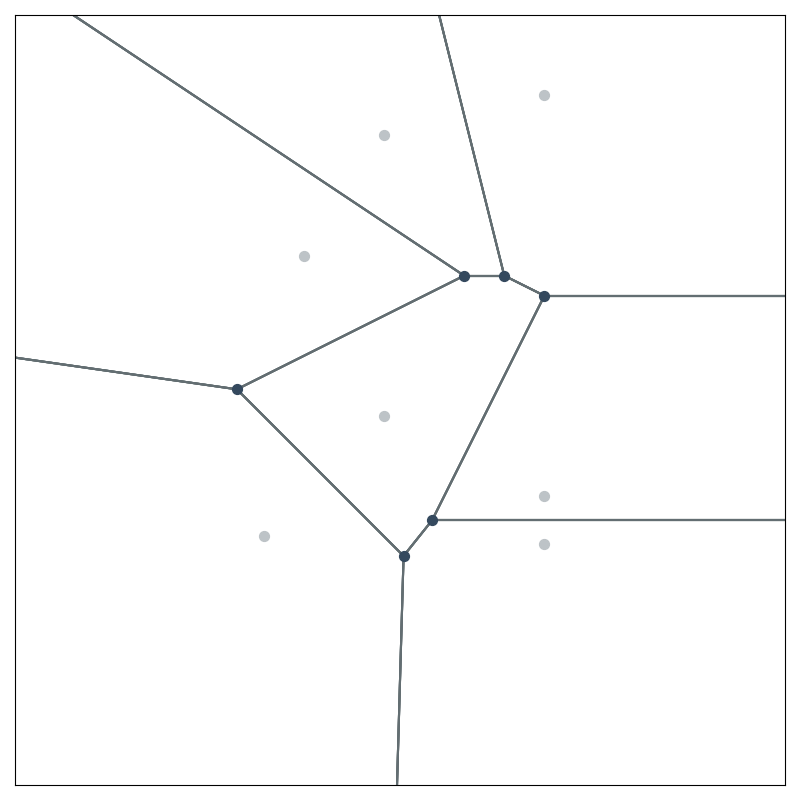
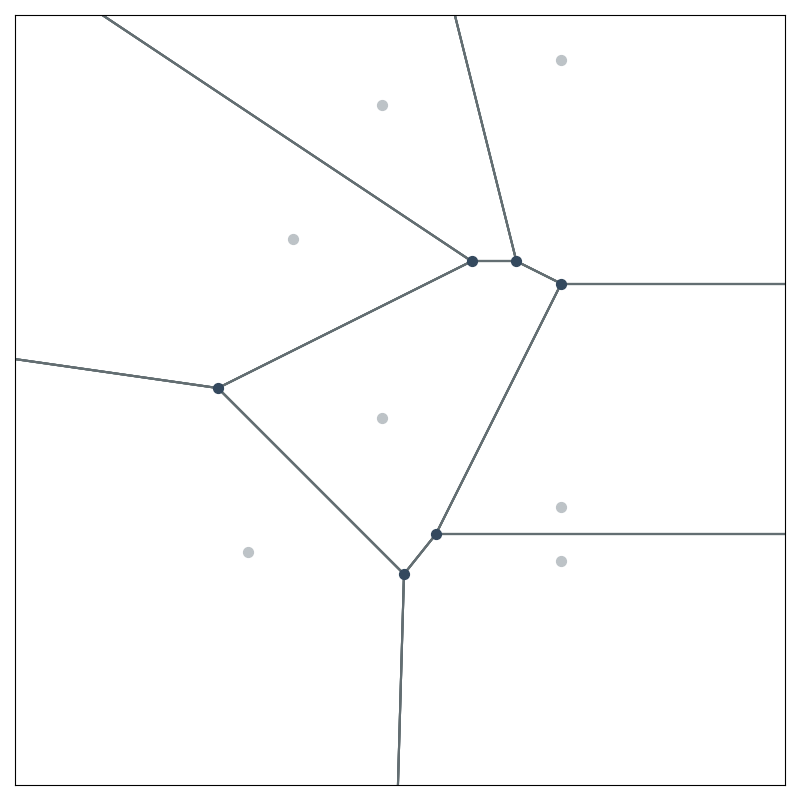
a few changes to the visualizer

diff --git a/src/visualizer.py b/src/visualizer.py
@@ -22,7 +22,7 @@ class Colors:
 
 class Visualizer:
     def __init__(
-        self, voronoi, bounding_box, offset=1, figsize=(8, 8), save_dir="images"
+        self, voronoi, bounding_box, offset=2, figsize=(8, 8), save_dir="images"
     ):
         """
         A useful class to visualize the Fortune's algorithm execution
@@ -175,13 +175,23 @@ class Visualizer:
 
         return
 
-    def plot_circle(self, x: float, y: float, radius: float, is_valid: bool = True):
+    def plot_circle(
+        self,
+        x: float,
+        y: float,
+        radius: float,
+        is_valid: bool = True,
+        plot_center: bool = True,
+    ):
         """
         Plot a circle.
         """
         color = Colors.valid_circle if is_valid else Colors.invalid_circle
         circle = plt.Circle((x, y), radius, fill=False, color=color, linewidth=2)
         self.canvas.add_artist(circle)
+
+        if plot_center:
+            self.canvas.scatter(x, y, s=50, color=color)
 
         return
 

diff --git a/src/fortune.py b/src/fortune.py
@@ -14,7 +14,7 @@ class Fortune:
         self.sites.sort(key=lambda p: p.y)
 
         # create a bounding box around the sites
-        self.bounding_box = BoundingBox(self.sites)
+        self.bounding_box = BoundingBox(self.sites, 0.5)
 
         # create the beach line
         self.beach_line = BeachLine()
@@ -84,8 +84,19 @@ class Fortune:
 
         # solve the largest circle problem and plot the solution
         self.visualizer.plot(
+            sites=self.sites,
+            fig_name=f"largest_circle_1",
+        )
+
+        self.visualizer.plot(
+            sites=self.sites,
+            event=max(self.past_events, key=lambda x: x.radius),
+            fig_name=f"largest_circle_2",
+        )
+
+        self.visualizer.plot(
             edges=self.voronoi.half_edges,
             sites=self.sites,
             event=max(self.past_events, key=lambda x: x.radius),
-            fig_name=f"largest_circle",
+            fig_name=f"largest_circle_3",
         )
